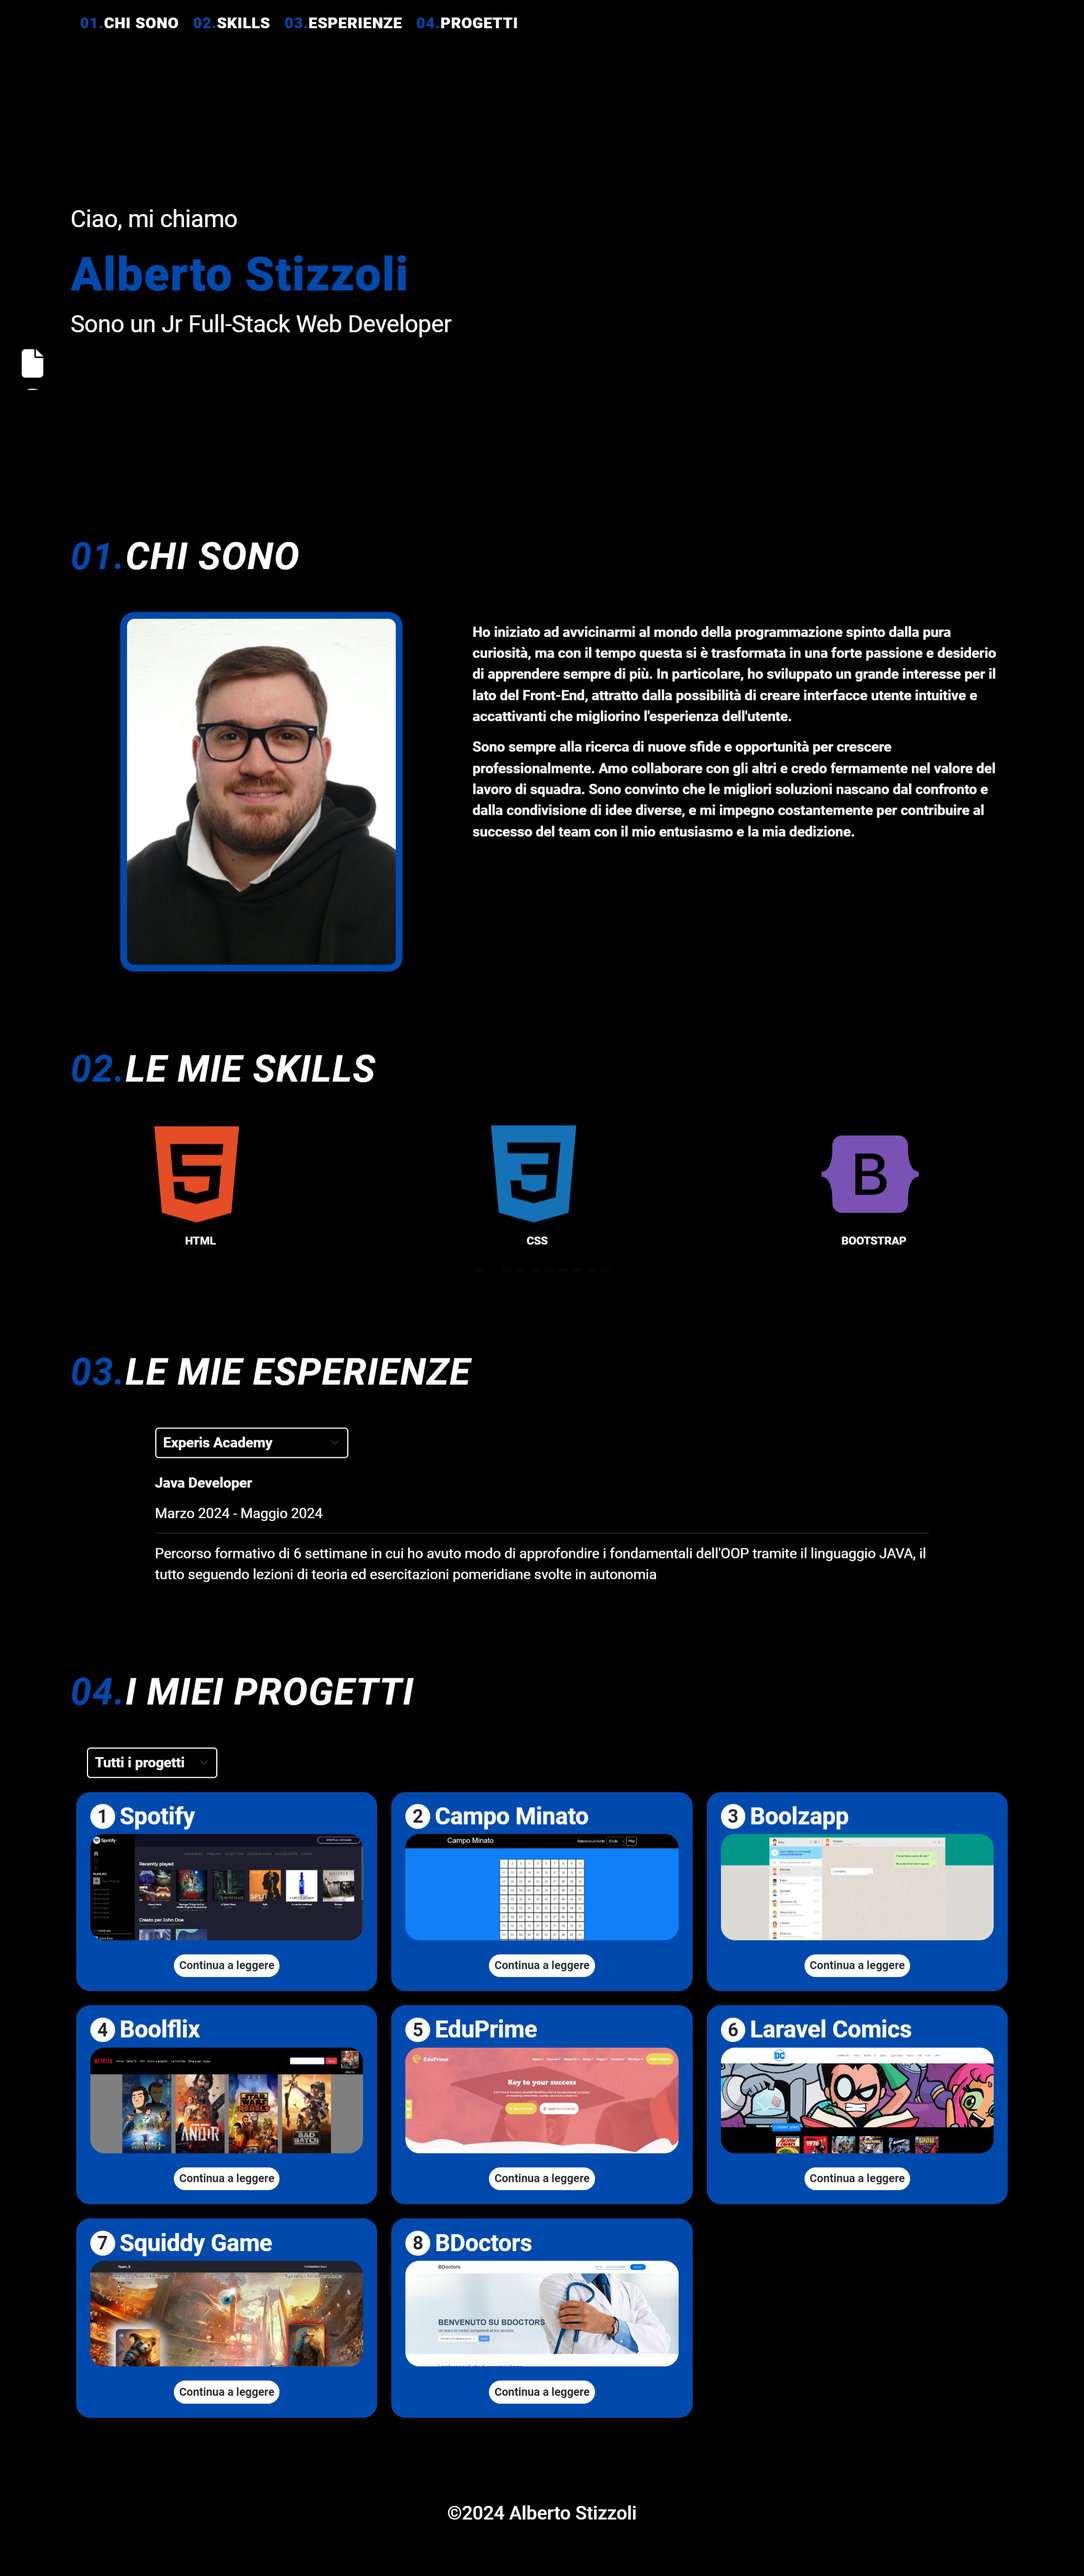
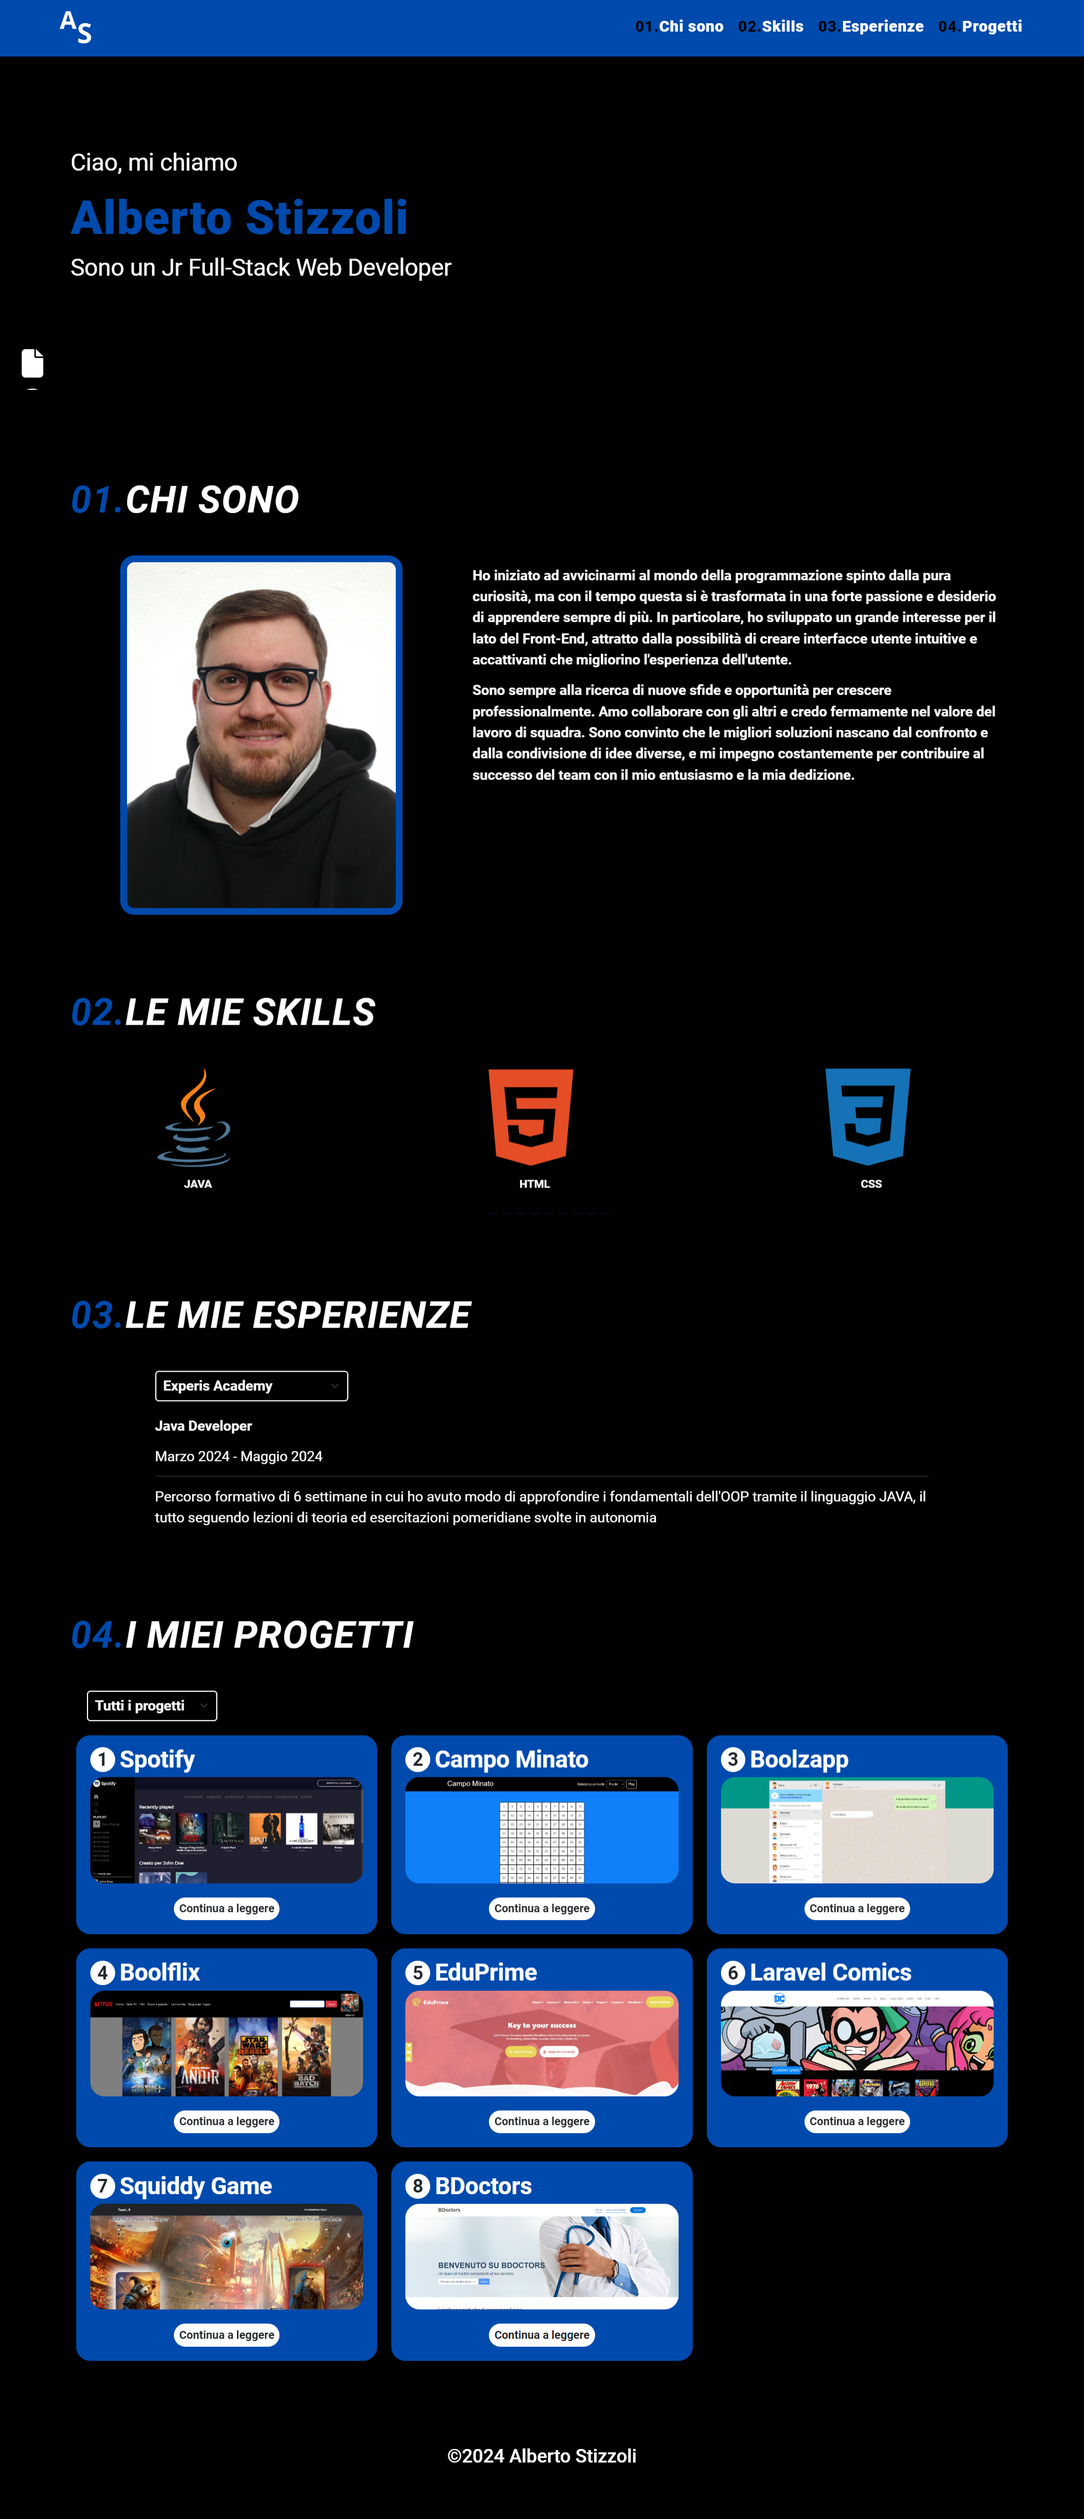
last modifications

diff --git a/src/pages/HomePage.vue b/src/pages/HomePage.vue
@@ -95,36 +95,6 @@
                 </div>
             </div>
         </section>
-        <!-- contatti -->
-        <section id="contacts">
-            <h2 class="intro pb-5 text-white"><i><span class="index">05.</span>CONTATTI</i></h2>
-            <div class="container p-0">
-                <div class="row d-flex justify-content-center">
-                    <div class="col-12 col-md-8">
-                        <form>
-                            <div class="mb-3">
-                                <label class="form-label">Nome e Cognome</label>
-                                <input type="text" class="form-control" placeholder="Alberto Stizzoli" name="user_name"
-                                    required>
-                            </div>
-                            <div class="mb-3">
-                                <label class="form-label">Email</label>
-                                <input type="email" class="form-control" placeholder="nome@email.com" name="user_email"
-                                    required>
-                            </div>
-                            <div class="mb-3">
-                                <label class="form-label">Messaggio</label>
-                                <textarea class="form-control" rows="5" name="message"
-                                    placeholder="Scrivi il tuo messaggio" required></textarea>
-                            </div>
-                            <button type="submit" class="btn btn-primary">INVIA
-                            </button>
-                        </form>
-                    </div>
-                </div>
-            </div>
-        </section>
-
     </div>
 </template>
 
@@ -175,8 +145,7 @@ export default {
 #about-me,
 #skills,
 #experience,
-#projects,
-#contacts {
+#projects{
     padding: 4rem 0;
 
     .intro {
@@ -357,37 +326,6 @@ export default {
             }
         }
     }
-
-    /*--- CONTATTI --- */
-
-    #contacts {
-        label {
-            font-size: 1.5rem;
-            font-weight: 600;
-            color: white;
-        }
-
-        input,
-        textarea {
-            font-size: 1.5rem;
-        }
-
-        .btn {
-            font-size: 1.5rem;
-            font-weight: 600;
-            padding: 0.5rem 3rem;
-            background-color: $primary-color;
-            border: none;
-            border-radius: 5px;
-
-            &:hover,
-            &:disabled {
-                background-color: white;
-                color: black;
-            }
-        }
-    }
-
 }
 
 @media screen and (max-width:991px) {

diff --git a/src/components/HeaderSection.vue b/src/components/HeaderSection.vue
@@ -26,11 +26,6 @@
                             <span class="index">04.</span>Progetti
                         </router-link>
                     </li>
-                    <li>
-                        <router-link :to="{ name: 'home', hash: '#contacts' }">
-                            <span class="index">05.</span>Contatti
-                        </router-link>
-                    </li>
                 </ul>
             </div>
             <div id="sidemenu">
@@ -64,11 +59,6 @@
                         <li data-bs-dismiss="offcanvas">
                             <router-link :to="{ name: 'home', hash: '#projects' }" @click.prevent="isActive">
                                 <span class="index">04.</span>Progetti
-                            </router-link>
-                        </li>
-                        <li data-bs-dismiss="offcanvas">
-                            <router-link :to="{ name: 'home', hash: '#contacts' }" @click.prevent="isActive">
-                                <span class="index">05.</span>Contatti
                             </router-link>
                         </li>
                     </ul>
@@ -106,6 +96,9 @@ header {
     justify-content: space-around;
     align-items: center;
     background-color: rgb(0, 74, 173);
+    position: fixed;
+    top: 0;
+    z-index: 1000;
 
     nav {
         width: 90%;
